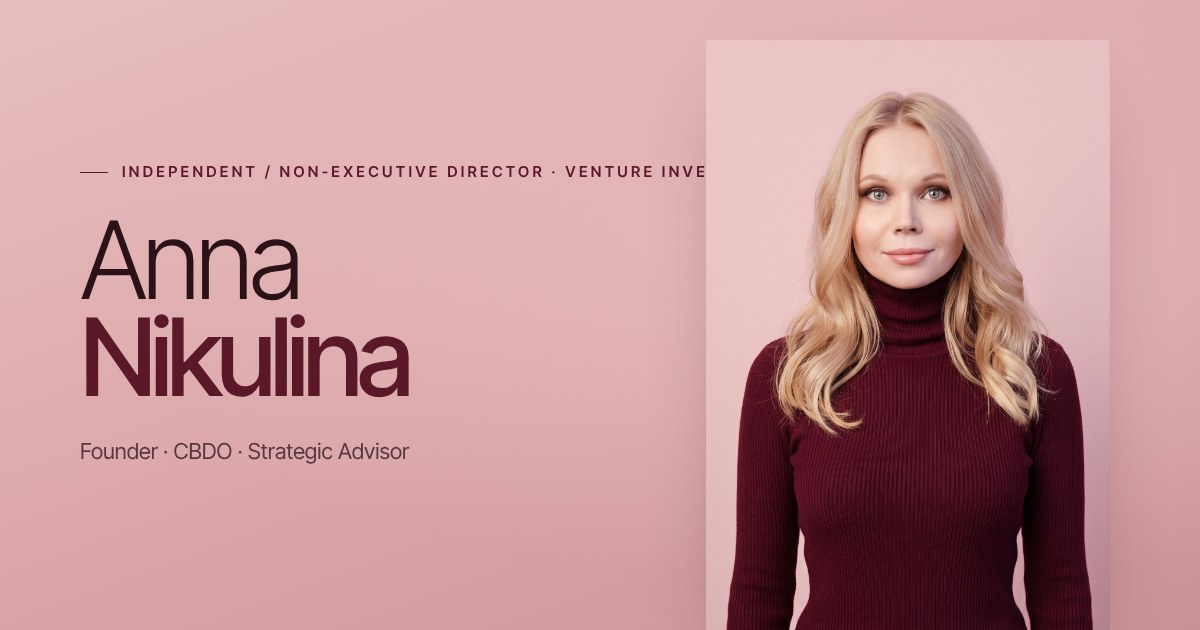
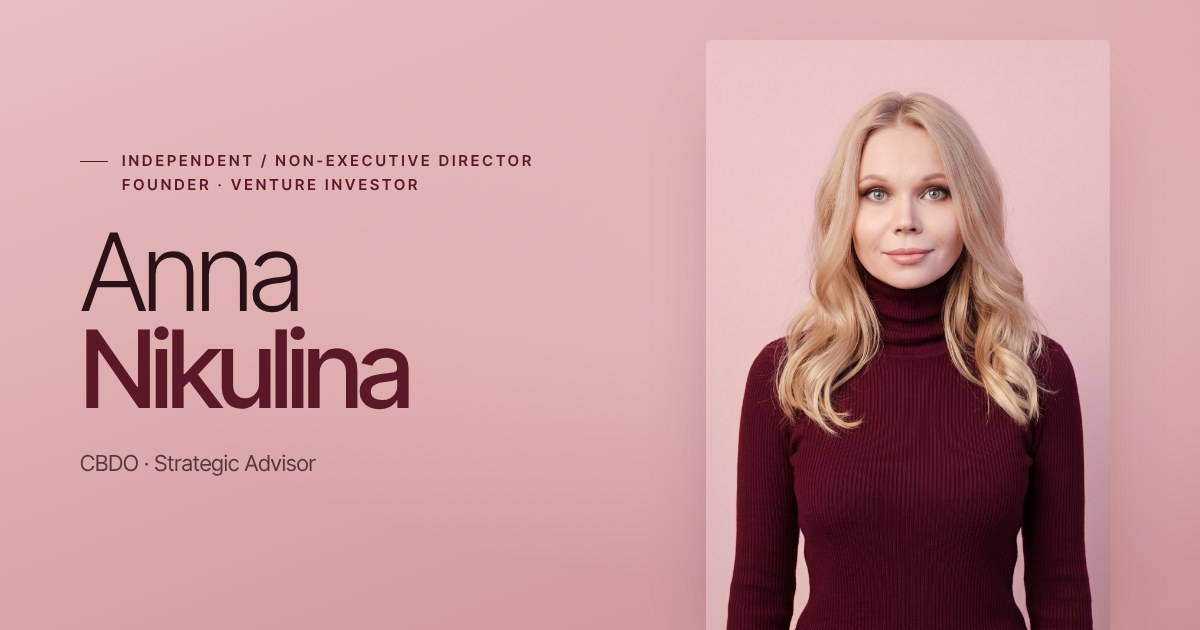
Hero eyebrow: add Founder; lead starts with CBDO; OG cover two-line eyebrow
Claude-Session: https://claude.ai/code/session_017zF6NKWSFQoNCEWFPX3gsG

Changed region(s): [[0.0617, 0.3619, 0.3392, 0.6635], [0.0925, 0.2413, 0.5858, 0.3016], [0.0617, 0.6937, 0.3392, 0.754]]

diff --git a/annanikulina/index.html b/annanikulina/index.html
@@ -24,7 +24,7 @@
 <link rel="me" href="https://www.youtube.com/@STRATEGYNikulina">
 <link rel="me" href="https://rutube.ru/channel/30327202">
 <link rel="sitemap" type="application/xml" href="https://nikuanna.github.io/mysite/sitemap.xml">
-<script type="application/ld+json">{"@context":"https://schema.org","@graph":[{"@type":"ProfilePage","@id":"https://nikuanna.github.io/mysite/annanikulina/#page","url":"https://nikuanna.github.io/mysite/annanikulina/","name":"Анна Никулина | Независимый директор, Advisory Board, венчурный инвестор","description":"Анна Никулина: независимый директор, Advisory Board Member, венчурный инвестор. 13+ лет в банках ТОП-10 РФ. Корпоративное управление, риски, финтех, MENA.","inLanguage":"ru-RU","dateModified":"2026-11-23","isPartOf":{"@id":"https://nikuanna.github.io/mysite/#website"},"mainEntity":{"@id":"https://nikuanna.github.io/mysite/#person"},"primaryImageOfPage":"https://nikuanna.github.io/mysite/assets/img/anna-portrait.jpg"},{"@type":"WebSite","@id":"https://nikuanna.github.io/mysite/#website","url":"https://nikuanna.github.io/mysite/","name":"Анна Никулина","inLanguage":["ru-RU","en-US"]},{"@type":"Person","@id":"https://nikuanna.github.io/mysite/#person","name":"Анна Никулина","alternateName":["Anna Nikulina"],"givenName":"Анна","familyName":"Никулина","url":"https://nikuanna.github.io/mysite/annanikulina/","image":"https://nikuanna.github.io/mysite/assets/img/anna-portrait.jpg","description":"Анна Никулина: независимый директор, Advisory Board Member, венчурный инвестор. 13+ лет в банках ТОП-10 РФ. Корпоративное управление, риски, финтех, MENA.","jobTitle":["Независимый директор","Advisory Board Member","Советник по стратегическому развитию","Директор по развитию","Венчурный инвестор"],"knowsAbout":["Корпоративное управление","Работа совета директоров","Независимый директор","Риск-менеджмент","Кредитные риски","Корпоративное кредитование","Антикризисное управление","Стратегическое развитие бизнеса","Венчурные инвестиции","Финтех","Краудфандинг","M&A","Due diligence","Цифровая трансформация","Рынок MENA","GR и регулирование"],"knowsLanguage":["ru","en"],"memberOf":{"@type":"Organization","name":"Ассоциация независимых директоров (АНД)"},"homeLocation":{"@type":"Place","name":"Москва"},"sameAs":["https://www.linkedin.com/in/anna-nikulina-cbdo/","https://t.me/STRATEGYNikulina","https://t.me/Anna_Niku","https://www.youtube.com/@STRATEGYNikulina","https://rutube.ru/channel/30327202"]},{"@type":"ItemList","name":"Видео","itemListElement":[{"@type":"ListItem","position":1,"item":{"@type":"VideoObject","name":"Субсидиарная ответственность членов СД и собственников","description":"Субсидиарная ответственность членов СД и собственников. Гость: Павел Викторов","embedUrl":"https://rutube.ru/play/embed/118d6fa9727639e5040512ae6d32b4be","url":"https://rutube.ru/video/118d6fa9727639e5040512ae6d32b4be/"}},{"@type":"ListItem","position":2,"item":{"@type":"VideoObject","name":"Революция роботов","description":"Революция роботов. Гость: Артём Лукин","embedUrl":"https://rutube.ru/play/embed/0f608d7f2b0e4aaa801a74142903122b","url":"https://rutube.ru/video/0f608d7f2b0e4aaa801a74142903122b/"}},{"@type":"ListItem","position":3,"item":{"@type":"VideoObject","name":"Дом как сервис","description":"Дом как сервис. Гость: Артём Бабинов","embedUrl":"https://rutube.ru/play/embed/82245c10c63797b9d4839cec6b54728c","url":"https://rutube.ru/video/82245c10c63797b9d4839cec6b54728c/"}},{"@type":"ListItem","position":4,"item":{"@type":"VideoObject","name":"За кулисами M&A","description":"За кулисами M&A. Гость: Иван Скавыш","embedUrl":"https://rutube.ru/play/embed/9c4bf61b043f1e9871b5e467088dbe60","url":"https://rutube.ru/video/9c4bf61b043f1e9871b5e467088dbe60/"}},{"@type":"ListItem","position":5,"item":{"@type":"VideoObject","name":"Стратегия загородной жизни","description":"Стратегия загородной жизни. Гость: Евгений Антифеев","embedUrl":"https://rutube.ru/play/embed/722f7eb517eb702874613efbd3f16c28","url":"https://rutube.ru/video/722f7eb517eb702874613efbd3f16c28/"}},{"@type":"ListItem","position":6,"item":{"@type":"VideoObject","name":"Искусственный интеллект билет в будущее","description":"Искусственный интеллект билет в будущее. Гость: Тимур Эль-Гохари","embedUrl":"https://rutube.ru/play/embed/aa2cad4c1103fe543607f4f6108b470c","url":"https://rutube.ru/video/aa2cad4c1103fe543607f4f6108b470c/"}},{"@type":"ListItem","position":7,"item":{"@type":"VideoObject","name":"Как вывести бизнес в Китай","description":"Как вывести бизнес в Китай. Гость: Виктор Соковнин","embedUrl":"https://rutube.ru/play/embed/4b83cb5bb370456e2c958657fe2ba707","url":"https://rutube.ru/video/4b83cb5bb370456e2c958657fe2ba707/"}}]}]}</script>
+<script type="application/ld+json">{"@context":"https://schema.org","@graph":[{"@type":"ProfilePage","@id":"https://nikuanna.github.io/mysite/annanikulina/#page","url":"https://nikuanna.github.io/mysite/annanikulina/","name":"Анна Никулина | Независимый директор, Advisory Board, венчурный инвестор","description":"Анна Никулина: независимый директор, Advisory Board Member, венчурный инвестор. 13+ лет в банках ТОП-10 РФ. Корпоративное управление, риски, финтех, MENA.","inLanguage":"ru-RU","dateModified":"2026-11-23","isPartOf":{"@id":"https://nikuanna.github.io/mysite/#website"},"mainEntity":{"@id":"https://nikuanna.github.io/mysite/#person"},"primaryImageOfPage":"https://nikuanna.github.io/mysite/assets/img/anna-portrait.jpg"},{"@type":"WebSite","@id":"https://nikuanna.github.io/mysite/#website","url":"https://nikuanna.github.io/mysite/","name":"Анна Никулина","inLanguage":["ru-RU","en-US"]},{"@type":"Person","@id":"https://nikuanna.github.io/mysite/#person","name":"Анна Никулина","alternateName":["Anna Nikulina"],"givenName":"Анна","familyName":"Никулина","url":"https://nikuanna.github.io/mysite/annanikulina/","image":"https://nikuanna.github.io/mysite/assets/img/anna-portrait.jpg","description":"Анна Никулина: независимый директор, Advisory Board Member, венчурный инвестор. 13+ лет в банках ТОП-10 РФ. Корпоративное управление, риски, финтех, MENA.","jobTitle":["Независимый директор","Основатель","Advisory Board Member","Советник по стратегическому развитию","Директор по развитию","Венчурный инвестор"],"knowsAbout":["Корпоративное управление","Работа совета директоров","Независимый директор","Риск-менеджмент","Кредитные риски","Корпоративное кредитование","Антикризисное управление","Стратегическое развитие бизнеса","Венчурные инвестиции","Финтех","Краудфандинг","M&A","Due diligence","Цифровая трансформация","Рынок MENA","GR и регулирование"],"knowsLanguage":["ru","en"],"memberOf":{"@type":"Organization","name":"Ассоциация независимых директоров (АНД)"},"homeLocation":{"@type":"Place","name":"Москва"},"sameAs":["https://www.linkedin.com/in/anna-nikulina-cbdo/","https://t.me/STRATEGYNikulina","https://t.me/Anna_Niku","https://www.youtube.com/@STRATEGYNikulina","https://rutube.ru/channel/30327202"]},{"@type":"ItemList","name":"Видео","itemListElement":[{"@type":"ListItem","position":1,"item":{"@type":"VideoObject","name":"Субсидиарная ответственность членов СД и собственников","description":"Субсидиарная ответственность членов СД и собственников. Гость: Павел Викторов","embedUrl":"https://rutube.ru/play/embed/118d6fa9727639e5040512ae6d32b4be","url":"https://rutube.ru/video/118d6fa9727639e5040512ae6d32b4be/"}},{"@type":"ListItem","position":2,"item":{"@type":"VideoObject","name":"Революция роботов","description":"Революция роботов. Гость: Артём Лукин","embedUrl":"https://rutube.ru/play/embed/0f608d7f2b0e4aaa801a74142903122b","url":"https://rutube.ru/video/0f608d7f2b0e4aaa801a74142903122b/"}},{"@type":"ListItem","position":3,"item":{"@type":"VideoObject","name":"Дом как сервис","description":"Дом как сервис. Гость: Артём Бабинов","embedUrl":"https://rutube.ru/play/embed/82245c10c63797b9d4839cec6b54728c","url":"https://rutube.ru/video/82245c10c63797b9d4839cec6b54728c/"}},{"@type":"ListItem","position":4,"item":{"@type":"VideoObject","name":"За кулисами M&A","description":"За кулисами M&A. Гость: Иван Скавыш","embedUrl":"https://rutube.ru/play/embed/9c4bf61b043f1e9871b5e467088dbe60","url":"https://rutube.ru/video/9c4bf61b043f1e9871b5e467088dbe60/"}},{"@type":"ListItem","position":5,"item":{"@type":"VideoObject","name":"Стратегия загородной жизни","description":"Стратегия загородной жизни. Гость: Евгений Антифеев","embedUrl":"https://rutube.ru/play/embed/722f7eb517eb702874613efbd3f16c28","url":"https://rutube.ru/video/722f7eb517eb702874613efbd3f16c28/"}},{"@type":"ListItem","position":6,"item":{"@type":"VideoObject","name":"Искусственный интеллект билет в будущее","description":"Искусственный интеллект билет в будущее. Гость: Тимур Эль-Гохари","embedUrl":"https://rutube.ru/play/embed/aa2cad4c1103fe543607f4f6108b470c","url":"https://rutube.ru/video/aa2cad4c1103fe543607f4f6108b470c/"}},{"@type":"ListItem","position":7,"item":{"@type":"VideoObject","name":"Как вывести бизнес в Китай","description":"Как вывести бизнес в Китай. Гость: Виктор Соковнин","embedUrl":"https://rutube.ru/play/embed/4b83cb5bb370456e2c958657fe2ba707","url":"https://rutube.ru/video/4b83cb5bb370456e2c958657fe2ba707/"}}]}]}</script>
 <meta property="og:title" content="Анна Никулина | Независимый директор, Advisory Board, венчурный инвестор">
 <meta property="og:description" content="Анна Никулина: независимый директор, Advisory Board Member, венчурный инвестор. 13+ лет в банках ТОП-10 РФ. Корпоративное управление, риски, финтех, MENA.">
 <meta property="og:url" content="https://nikuanna.github.io/mysite/annanikulina/">
@@ -58,9 +58,9 @@
     <div class="hero-orb" data-speed="0.5" data-x="-0.08" aria-hidden="true"></div>
     <div class="wrap">
       <div class="hero-text" data-speed="0.18" data-fade>
-        <div class="eyebrow reveal">Независимый директор в СД · Венчурный инвестор</div>
+        <div class="eyebrow reveal">Независимый директор в СД · Основатель · Венчурный инвестор</div>
         <h1 class="reveal d1">Анна<span class="l2">Никулина</span></h1>
-        <p class="hero-lead reveal d2">Основатель, директор по развитию и советник по стратегическому развитию. Помогаю собственникам, инвесторам и стартапам принимать решения, которые выдерживают проверку временем.</p>
+        <p class="hero-lead reveal d2">Директор по развитию и советник по стратегическому развитию. Помогаю собственникам, инвесторам и стартапам принимать решения, которые выдерживают проверку временем.</p>
         <div class="hero-cta reveal d3">
           <a class="btn btn-wine glow" href="#contact">Связаться<svg viewBox="0 0 24 24" fill="none" stroke="currentColor" stroke-width="1.6" aria-hidden="true"><path d="M5 12h14M13 6l6 6-6 6"/></svg></a>
           <ul class="icon-row" aria-label="Мои каналы и соцсети"><li><a class="glow" href="https://www.linkedin.com/in/anna-nikulina-cbdo/" target="_blank" rel="noopener" aria-label="LinkedIn: Anna Nikulina" title="LinkedIn: Anna Nikulina"><svg viewBox="0 0 24 24" fill="currentColor" aria-hidden="true"><path d="M4.98 3.5a2.5 2.5 0 1 1 0 5 2.5 2.5 0 0 1 0-5zM3 9.5h4V21H3zM10 9.5h3.8v1.6h.06c.53-1 1.83-2.06 3.77-2.06 4.03 0 4.77 2.65 4.77 6.1V21h-4v-5.1c0-1.22-.02-2.79-1.7-2.79-1.7 0-1.96 1.33-1.96 2.7V21h-4z"/></svg></a></li><li><a class="glow" href="https://t.me/Anna_Niku" target="_blank" rel="noopener" aria-label="Написать в Telegram: @Anna_Niku" title="Написать в Telegram: @Anna_Niku"><svg viewBox="0 0 24 24" fill="currentColor" aria-hidden="true"><path d="M21.9 4.3 18.7 19.4c-.24 1.07-.87 1.33-1.76.83l-4.87-3.59-2.35 2.26c-.26.26-.48.48-.98.48l.35-4.96 9.03-8.16c.39-.35-.09-.54-.61-.2L6.36 13.1l-4.8-1.5c-1.04-.33-1.06-1.04.22-1.54L20.5 2.85c.87-.32 1.63.2 1.4 1.45z"/></svg></a></li><li class="has-word"><a class="glow" href="https://t.me/STRATEGYNikulina" target="_blank" rel="noopener" aria-label="Telegram-канал STRATEGY" title="Telegram-канал STRATEGY"><svg viewBox="0 0 24 24" fill="currentColor" aria-hidden="true"><path d="M21.9 4.3 18.7 19.4c-.24 1.07-.87 1.33-1.76.83l-4.87-3.59-2.35 2.26c-.26.26-.48.48-.98.48l.35-4.96 9.03-8.16c.39-.35-.09-.54-.61-.2L6.36 13.1l-4.8-1.5c-1.04-.33-1.06-1.04.22-1.54L20.5 2.85c.87-.32 1.63.2 1.4 1.45z"/></svg><span>канал</span></a></li><li><a class="glow" href="https://www.youtube.com/@STRATEGYNikulina" target="_blank" rel="noopener" aria-label="YouTube-канал STRATEGY" title="YouTube-канал STRATEGY"><svg viewBox="0 0 24 24" fill="currentColor" fill-rule="evenodd" aria-hidden="true"><path d="M23 7.2a3 3 0 0 0-2.1-2.1C19 4.6 12 4.6 12 4.6s-7 0-8.9.5A3 3 0 0 0 1 7.2 31 31 0 0 0 .5 12a31 31 0 0 0 .5 4.8 3 3 0 0 0 2.1 2.1c1.9.5 8.9.5 8.9.5s7 0 8.9-.5a3 3 0 0 0 2.1-2.1 31 31 0 0 0 .5-4.8 31 31 0 0 0-.5-4.8zM9.75 15.02V8.98L15.5 12z"/></svg></a></li><li><a class="glow" href="https://rutube.ru/channel/30327202" target="_blank" rel="noopener" aria-label="RuTube-канал" title="RuTube-канал"><svg viewBox="0 0 24 24" aria-hidden="true"><rect x="2.6" y="2.6" width="18.8" height="18.8" rx="5" fill="none" stroke="currentColor" stroke-width="1.8"/><path d="M8.6 17V7.2h4.5a2.8 2.8 0 0 1 0 5.6H8.6M12.5 12.8l3 4.2" fill="none" stroke="currentColor" stroke-width="1.8" stroke-linecap="round" stroke-linejoin="round"/><circle cx="17" cy="7" r="1.4" fill="currentColor"/></svg></a></li></ul>
@@ -132,7 +132,7 @@
 </main>
 
 <footer class="footer">
-  <div class="wrap"><span>© 2026 Анна Никулина</span><ul class="icon-row icon-row-sm" aria-label="Мои каналы и соцсети"><li><a class="glow" href="https://www.linkedin.com/in/anna-nikulina-cbdo/" target="_blank" rel="noopener" aria-label="LinkedIn: Anna Nikulina" title="LinkedIn: Anna Nikulina"><svg viewBox="0 0 24 24" fill="currentColor" aria-hidden="true"><path d="M4.98 3.5a2.5 2.5 0 1 1 0 5 2.5 2.5 0 0 1 0-5zM3 9.5h4V21H3zM10 9.5h3.8v1.6h.06c.53-1 1.83-2.06 3.77-2.06 4.03 0 4.77 2.65 4.77 6.1V21h-4v-5.1c0-1.22-.02-2.79-1.7-2.79-1.7 0-1.96 1.33-1.96 2.7V21h-4z"/></svg></a></li><li><a class="glow" href="https://t.me/Anna_Niku" target="_blank" rel="noopener" aria-label="Написать в Telegram: @Anna_Niku" title="Написать в Telegram: @Anna_Niku"><svg viewBox="0 0 24 24" fill="currentColor" aria-hidden="true"><path d="M21.9 4.3 18.7 19.4c-.24 1.07-.87 1.33-1.76.83l-4.87-3.59-2.35 2.26c-.26.26-.48.48-.98.48l.35-4.96 9.03-8.16c.39-.35-.09-.54-.61-.2L6.36 13.1l-4.8-1.5c-1.04-.33-1.06-1.04.22-1.54L20.5 2.85c.87-.32 1.63.2 1.4 1.45z"/></svg></a></li><li class="has-word"><a class="glow" href="https://t.me/STRATEGYNikulina" target="_blank" rel="noopener" aria-label="Telegram-канал STRATEGY" title="Telegram-канал STRATEGY"><svg viewBox="0 0 24 24" fill="currentColor" aria-hidden="true"><path d="M21.9 4.3 18.7 19.4c-.24 1.07-.87 1.33-1.76.83l-4.87-3.59-2.35 2.26c-.26.26-.48.48-.98.48l.35-4.96 9.03-8.16c.39-.35-.09-.54-.61-.2L6.36 13.1l-4.8-1.5c-1.04-.33-1.06-1.04.22-1.54L20.5 2.85c.87-.32 1.63.2 1.4 1.45z"/></svg><span>канал</span></a></li><li><a class="glow" href="https://www.youtube.com/@STRATEGYNikulina" target="_blank" rel="noopener" aria-label="YouTube-канал STRATEGY" title="YouTube-канал STRATEGY"><svg viewBox="0 0 24 24" fill="currentColor" fill-rule="evenodd" aria-hidden="true"><path d="M23 7.2a3 3 0 0 0-2.1-2.1C19 4.6 12 4.6 12 4.6s-7 0-8.9.5A3 3 0 0 0 1 7.2 31 31 0 0 0 .5 12a31 31 0 0 0 .5 4.8 3 3 0 0 0 2.1 2.1c1.9.5 8.9.5 8.9.5s7 0 8.9-.5a3 3 0 0 0 2.1-2.1 31 31 0 0 0 .5-4.8 31 31 0 0 0-.5-4.8zM9.75 15.02V8.98L15.5 12z"/></svg></a></li><li><a class="glow" href="https://rutube.ru/channel/30327202" target="_blank" rel="noopener" aria-label="RuTube-канал" title="RuTube-канал"><svg viewBox="0 0 24 24" aria-hidden="true"><rect x="2.6" y="2.6" width="18.8" height="18.8" rx="5" fill="none" stroke="currentColor" stroke-width="1.8"/><path d="M8.6 17V7.2h4.5a2.8 2.8 0 0 1 0 5.6H8.6M12.5 12.8l3 4.2" fill="none" stroke="currentColor" stroke-width="1.8" stroke-linecap="round" stroke-linejoin="round"/><circle cx="17" cy="7" r="1.4" fill="currentColor"/></svg></a></li></ul><span>Независимый директор в СД · Венчурный инвестор</span></div>
+  <div class="wrap"><span>© 2026 Анна Никулина</span><ul class="icon-row icon-row-sm" aria-label="Мои каналы и соцсети"><li><a class="glow" href="https://www.linkedin.com/in/anna-nikulina-cbdo/" target="_blank" rel="noopener" aria-label="LinkedIn: Anna Nikulina" title="LinkedIn: Anna Nikulina"><svg viewBox="0 0 24 24" fill="currentColor" aria-hidden="true"><path d="M4.98 3.5a2.5 2.5 0 1 1 0 5 2.5 2.5 0 0 1 0-5zM3 9.5h4V21H3zM10 9.5h3.8v1.6h.06c.53-1 1.83-2.06 3.77-2.06 4.03 0 4.77 2.65 4.77 6.1V21h-4v-5.1c0-1.22-.02-2.79-1.7-2.79-1.7 0-1.96 1.33-1.96 2.7V21h-4z"/></svg></a></li><li><a class="glow" href="https://t.me/Anna_Niku" target="_blank" rel="noopener" aria-label="Написать в Telegram: @Anna_Niku" title="Написать в Telegram: @Anna_Niku"><svg viewBox="0 0 24 24" fill="currentColor" aria-hidden="true"><path d="M21.9 4.3 18.7 19.4c-.24 1.07-.87 1.33-1.76.83l-4.87-3.59-2.35 2.26c-.26.26-.48.48-.98.48l.35-4.96 9.03-8.16c.39-.35-.09-.54-.61-.2L6.36 13.1l-4.8-1.5c-1.04-.33-1.06-1.04.22-1.54L20.5 2.85c.87-.32 1.63.2 1.4 1.45z"/></svg></a></li><li class="has-word"><a class="glow" href="https://t.me/STRATEGYNikulina" target="_blank" rel="noopener" aria-label="Telegram-канал STRATEGY" title="Telegram-канал STRATEGY"><svg viewBox="0 0 24 24" fill="currentColor" aria-hidden="true"><path d="M21.9 4.3 18.7 19.4c-.24 1.07-.87 1.33-1.76.83l-4.87-3.59-2.35 2.26c-.26.26-.48.48-.98.48l.35-4.96 9.03-8.16c.39-.35-.09-.54-.61-.2L6.36 13.1l-4.8-1.5c-1.04-.33-1.06-1.04.22-1.54L20.5 2.85c.87-.32 1.63.2 1.4 1.45z"/></svg><span>канал</span></a></li><li><a class="glow" href="https://www.youtube.com/@STRATEGYNikulina" target="_blank" rel="noopener" aria-label="YouTube-канал STRATEGY" title="YouTube-канал STRATEGY"><svg viewBox="0 0 24 24" fill="currentColor" fill-rule="evenodd" aria-hidden="true"><path d="M23 7.2a3 3 0 0 0-2.1-2.1C19 4.6 12 4.6 12 4.6s-7 0-8.9.5A3 3 0 0 0 1 7.2 31 31 0 0 0 .5 12a31 31 0 0 0 .5 4.8 3 3 0 0 0 2.1 2.1c1.9.5 8.9.5 8.9.5s7 0 8.9-.5a3 3 0 0 0 2.1-2.1 31 31 0 0 0 .5-4.8 31 31 0 0 0-.5-4.8zM9.75 15.02V8.98L15.5 12z"/></svg></a></li><li><a class="glow" href="https://rutube.ru/channel/30327202" target="_blank" rel="noopener" aria-label="RuTube-канал" title="RuTube-канал"><svg viewBox="0 0 24 24" aria-hidden="true"><rect x="2.6" y="2.6" width="18.8" height="18.8" rx="5" fill="none" stroke="currentColor" stroke-width="1.8"/><path d="M8.6 17V7.2h4.5a2.8 2.8 0 0 1 0 5.6H8.6M12.5 12.8l3 4.2" fill="none" stroke="currentColor" stroke-width="1.8" stroke-linecap="round" stroke-linejoin="round"/><circle cx="17" cy="7" r="1.4" fill="currentColor"/></svg></a></li></ul><span>Независимый директор в СД · Основатель · Венчурный инвестор</span></div>
 </footer>
 
 <script src="../assets/site.js" defer></script>

diff --git a/en/index.html b/en/index.html
@@ -24,7 +24,7 @@
 <link rel="me" href="https://www.youtube.com/@STRATEGYNikulina">
 <link rel="me" href="https://rutube.ru/channel/30327202">
 <link rel="sitemap" type="application/xml" href="https://nikuanna.github.io/mysite/sitemap.xml">
-<script type="application/ld+json">{"@context":"https://schema.org","@graph":[{"@type":"ProfilePage","@id":"https://nikuanna.github.io/mysite/en/#page","url":"https://nikuanna.github.io/mysite/en/","name":"Anna Nikulina | Independent / Non-Executive Director & Venture Investor","description":"Anna Nikulina: independent / non-executive director, advisory board member, venture investor. 13+ years at top-10 Russian banks. Governance, risk, fintech, MENA.","inLanguage":"en-US","dateModified":"2026-11-23","isPartOf":{"@id":"https://nikuanna.github.io/mysite/#website"},"mainEntity":{"@id":"https://nikuanna.github.io/mysite/#person"},"primaryImageOfPage":"https://nikuanna.github.io/mysite/assets/img/anna-portrait.jpg"},{"@type":"WebSite","@id":"https://nikuanna.github.io/mysite/#website","url":"https://nikuanna.github.io/mysite/","name":"Anna Nikulina","inLanguage":["ru-RU","en-US"]},{"@type":"Person","@id":"https://nikuanna.github.io/mysite/#person","name":"Anna Nikulina","alternateName":["Анна Никулина"],"givenName":"Anna","familyName":"Nikulina","url":"https://nikuanna.github.io/mysite/en/","image":"https://nikuanna.github.io/mysite/assets/img/anna-portrait.jpg","description":"Anna Nikulina: independent / non-executive director, advisory board member, venture investor. 13+ years at top-10 Russian banks. Governance, risk, fintech, MENA.","jobTitle":["Independent / Non-Executive Director","Advisory Board Member","Strategic Advisor","Chief Business Development Officer","Venture Investor"],"knowsAbout":["Corporate governance","Board of directors","Non-executive director","Risk management","Credit risk","Corporate lending","Crisis management","Business strategy","Venture capital","Fintech","Crowdfunding","Mergers and acquisitions","Due diligence","Digital transformation","MENA markets","Regulatory policy"],"knowsLanguage":["ru","en"],"memberOf":{"@type":"Organization","name":"Association of Independent Directors (AID), Russia"},"homeLocation":{"@type":"Place","name":"Moscow"},"sameAs":["https://www.linkedin.com/in/anna-nikulina-cbdo/","https://t.me/STRATEGYNikulina","https://t.me/Anna_Niku","https://www.youtube.com/@STRATEGYNikulina","https://rutube.ru/channel/30327202"]},{"@type":"ItemList","name":"Videos","itemListElement":[{"@type":"ListItem","position":1,"item":{"@type":"VideoObject","name":"Subsidiary liability of board members and owners","description":"Subsidiary liability of board members and owners. Guest: Pavel Viktorov","embedUrl":"https://www.youtube-nocookie.com/embed/cvLB6uWxBnk","url":"https://www.youtube.com/watch?v=cvLB6uWxBnk","thumbnailUrl":"https://i.ytimg.com/vi/cvLB6uWxBnk/hqdefault.jpg"}},{"@type":"ListItem","position":2,"item":{"@type":"VideoObject","name":"The robot revolution","description":"The robot revolution. Guest: Artem Lukin","embedUrl":"https://www.youtube-nocookie.com/embed/VuuB7uzdvwo","url":"https://www.youtube.com/watch?v=VuuB7uzdvwo","thumbnailUrl":"https://i.ytimg.com/vi/VuuB7uzdvwo/hqdefault.jpg"}},{"@type":"ListItem","position":3,"item":{"@type":"VideoObject","name":"Home as a service","description":"Home as a service. Guest: Artem Babinov","embedUrl":"https://www.youtube-nocookie.com/embed/n84INQQOz0Q","url":"https://www.youtube.com/watch?v=n84INQQOz0Q","thumbnailUrl":"https://i.ytimg.com/vi/n84INQQOz0Q/hqdefault.jpg"}},{"@type":"ListItem","position":4,"item":{"@type":"VideoObject","name":"Behind the scenes of M&A","description":"Behind the scenes of M&A. Guest: Ivan Skavysh","embedUrl":"https://www.youtube-nocookie.com/embed/jWN5XPts_jQ","url":"https://www.youtube.com/watch?v=jWN5XPts_jQ","thumbnailUrl":"https://i.ytimg.com/vi/jWN5XPts_jQ/hqdefault.jpg"}},{"@type":"ListItem","position":5,"item":{"@type":"VideoObject","name":"A strategy for country living","description":"A strategy for country living. Guest: Evgeny Antifeev","embedUrl":"https://www.youtube-nocookie.com/embed/KyPmCVrwbLU","url":"https://www.youtube.com/watch?v=KyPmCVrwbLU","thumbnailUrl":"https://i.ytimg.com/vi/KyPmCVrwbLU/hqdefault.jpg"}},{"@type":"ListItem","position":6,"item":{"@type":"VideoObject","name":"Artificial intelligence: a ticket to the future","description":"Artificial intelligence: a ticket to the future. Guest: Timur El-Gohary","embedUrl":"https://www.youtube-nocookie.com/embed/8VpxzIJPAVs","url":"https://www.youtube.com/watch?v=8VpxzIJPAVs","thumbnailUrl":"https://i.ytimg.com/vi/8VpxzIJPAVs/hqdefault.jpg"}},{"@type":"ListItem","position":7,"item":{"@type":"VideoObject","name":"How to expand your business into China","description":"How to expand your business into China. Guest: Viktor Sokovnin","embedUrl":"https://www.youtube-nocookie.com/embed/xlhwJ3_e-nw","url":"https://www.youtube.com/watch?v=xlhwJ3_e-nw","thumbnailUrl":"https://i.ytimg.com/vi/xlhwJ3_e-nw/hqdefault.jpg"}}]}]}</script>
+<script type="application/ld+json">{"@context":"https://schema.org","@graph":[{"@type":"ProfilePage","@id":"https://nikuanna.github.io/mysite/en/#page","url":"https://nikuanna.github.io/mysite/en/","name":"Anna Nikulina | Independent / Non-Executive Director & Venture Investor","description":"Anna Nikulina: independent / non-executive director, advisory board member, venture investor. 13+ years at top-10 Russian banks. Governance, risk, fintech, MENA.","inLanguage":"en-US","dateModified":"2026-11-23","isPartOf":{"@id":"https://nikuanna.github.io/mysite/#website"},"mainEntity":{"@id":"https://nikuanna.github.io/mysite/#person"},"primaryImageOfPage":"https://nikuanna.github.io/mysite/assets/img/anna-portrait.jpg"},{"@type":"WebSite","@id":"https://nikuanna.github.io/mysite/#website","url":"https://nikuanna.github.io/mysite/","name":"Anna Nikulina","inLanguage":["ru-RU","en-US"]},{"@type":"Person","@id":"https://nikuanna.github.io/mysite/#person","name":"Anna Nikulina","alternateName":["Анна Никулина"],"givenName":"Anna","familyName":"Nikulina","url":"https://nikuanna.github.io/mysite/en/","image":"https://nikuanna.github.io/mysite/assets/img/anna-portrait.jpg","description":"Anna Nikulina: independent / non-executive director, advisory board member, venture investor. 13+ years at top-10 Russian banks. Governance, risk, fintech, MENA.","jobTitle":["Independent / Non-Executive Director","Founder","Advisory Board Member","Strategic Advisor","Chief Business Development Officer","Venture Investor"],"knowsAbout":["Corporate governance","Board of directors","Non-executive director","Risk management","Credit risk","Corporate lending","Crisis management","Business strategy","Venture capital","Fintech","Crowdfunding","Mergers and acquisitions","Due diligence","Digital transformation","MENA markets","Regulatory policy"],"knowsLanguage":["ru","en"],"memberOf":{"@type":"Organization","name":"Association of Independent Directors (AID), Russia"},"homeLocation":{"@type":"Place","name":"Moscow"},"sameAs":["https://www.linkedin.com/in/anna-nikulina-cbdo/","https://t.me/STRATEGYNikulina","https://t.me/Anna_Niku","https://www.youtube.com/@STRATEGYNikulina","https://rutube.ru/channel/30327202"]},{"@type":"ItemList","name":"Videos","itemListElement":[{"@type":"ListItem","position":1,"item":{"@type":"VideoObject","name":"Subsidiary liability of board members and owners","description":"Subsidiary liability of board members and owners. Guest: Pavel Viktorov","embedUrl":"https://www.youtube-nocookie.com/embed/cvLB6uWxBnk","url":"https://www.youtube.com/watch?v=cvLB6uWxBnk","thumbnailUrl":"https://i.ytimg.com/vi/cvLB6uWxBnk/hqdefault.jpg"}},{"@type":"ListItem","position":2,"item":{"@type":"VideoObject","name":"The robot revolution","description":"The robot revolution. Guest: Artem Lukin","embedUrl":"https://www.youtube-nocookie.com/embed/VuuB7uzdvwo","url":"https://www.youtube.com/watch?v=VuuB7uzdvwo","thumbnailUrl":"https://i.ytimg.com/vi/VuuB7uzdvwo/hqdefault.jpg"}},{"@type":"ListItem","position":3,"item":{"@type":"VideoObject","name":"Home as a service","description":"Home as a service. Guest: Artem Babinov","embedUrl":"https://www.youtube-nocookie.com/embed/n84INQQOz0Q","url":"https://www.youtube.com/watch?v=n84INQQOz0Q","thumbnailUrl":"https://i.ytimg.com/vi/n84INQQOz0Q/hqdefault.jpg"}},{"@type":"ListItem","position":4,"item":{"@type":"VideoObject","name":"Behind the scenes of M&A","description":"Behind the scenes of M&A. Guest: Ivan Skavysh","embedUrl":"https://www.youtube-nocookie.com/embed/jWN5XPts_jQ","url":"https://www.youtube.com/watch?v=jWN5XPts_jQ","thumbnailUrl":"https://i.ytimg.com/vi/jWN5XPts_jQ/hqdefault.jpg"}},{"@type":"ListItem","position":5,"item":{"@type":"VideoObject","name":"A strategy for country living","description":"A strategy for country living. Guest: Evgeny Antifeev","embedUrl":"https://www.youtube-nocookie.com/embed/KyPmCVrwbLU","url":"https://www.youtube.com/watch?v=KyPmCVrwbLU","thumbnailUrl":"https://i.ytimg.com/vi/KyPmCVrwbLU/hqdefault.jpg"}},{"@type":"ListItem","position":6,"item":{"@type":"VideoObject","name":"Artificial intelligence: a ticket to the future","description":"Artificial intelligence: a ticket to the future. Guest: Timur El-Gohary","embedUrl":"https://www.youtube-nocookie.com/embed/8VpxzIJPAVs","url":"https://www.youtube.com/watch?v=8VpxzIJPAVs","thumbnailUrl":"https://i.ytimg.com/vi/8VpxzIJPAVs/hqdefault.jpg"}},{"@type":"ListItem","position":7,"item":{"@type":"VideoObject","name":"How to expand your business into China","description":"How to expand your business into China. Guest: Viktor Sokovnin","embedUrl":"https://www.youtube-nocookie.com/embed/xlhwJ3_e-nw","url":"https://www.youtube.com/watch?v=xlhwJ3_e-nw","thumbnailUrl":"https://i.ytimg.com/vi/xlhwJ3_e-nw/hqdefault.jpg"}}]}]}</script>
 <meta property="og:title" content="Anna Nikulina | Independent / Non-Executive Director &amp; Venture Investor">
 <meta property="og:description" content="Anna Nikulina: independent / non-executive director, advisory board member, venture investor. 13+ years at top-10 Russian banks. Governance, risk, fintech, MENA.">
 <meta property="og:url" content="https://nikuanna.github.io/mysite/en/">
@@ -58,9 +58,9 @@
     <div class="hero-orb" data-speed="0.5" data-x="-0.08" aria-hidden="true"></div>
     <div class="wrap">
       <div class="hero-text" data-speed="0.18" data-fade>
-        <div class="eyebrow reveal">Independent / Non-Executive Director · Venture Investor</div>
+        <div class="eyebrow reveal">Independent / Non-Executive Director · Founder · Venture Investor</div>
         <h1 class="reveal d1">Anna<span class="l2">Nikulina</span></h1>
-        <p class="hero-lead reveal d2">Founder, Chief Business Development Officer, and Strategic Advisor. I help business owners, investors, and founders make decisions that stand the test of time.</p>
+        <p class="hero-lead reveal d2">Chief Business Development Officer and Strategic Advisor. I help business owners, investors, and founders make decisions that stand the test of time.</p>
         <div class="hero-cta reveal d3">
           <a class="btn btn-wine glow" href="#contact">Get in Touch<svg viewBox="0 0 24 24" fill="none" stroke="currentColor" stroke-width="1.6" aria-hidden="true"><path d="M5 12h14M13 6l6 6-6 6"/></svg></a>
           <ul class="icon-row" aria-label="Channels &amp; social media"><li><a class="glow" href="https://www.linkedin.com/in/anna-nikulina-cbdo/" target="_blank" rel="noopener" aria-label="LinkedIn: Anna Nikulina" title="LinkedIn: Anna Nikulina"><svg viewBox="0 0 24 24" fill="currentColor" aria-hidden="true"><path d="M4.98 3.5a2.5 2.5 0 1 1 0 5 2.5 2.5 0 0 1 0-5zM3 9.5h4V21H3zM10 9.5h3.8v1.6h.06c.53-1 1.83-2.06 3.77-2.06 4.03 0 4.77 2.65 4.77 6.1V21h-4v-5.1c0-1.22-.02-2.79-1.7-2.79-1.7 0-1.96 1.33-1.96 2.7V21h-4z"/></svg></a></li><li><a class="glow" href="https://t.me/Anna_Niku" target="_blank" rel="noopener" aria-label="Message on Telegram: @Anna_Niku" title="Message on Telegram: @Anna_Niku"><svg viewBox="0 0 24 24" fill="currentColor" aria-hidden="true"><path d="M21.9 4.3 18.7 19.4c-.24 1.07-.87 1.33-1.76.83l-4.87-3.59-2.35 2.26c-.26.26-.48.48-.98.48l.35-4.96 9.03-8.16c.39-.35-.09-.54-.61-.2L6.36 13.1l-4.8-1.5c-1.04-.33-1.06-1.04.22-1.54L20.5 2.85c.87-.32 1.63.2 1.4 1.45z"/></svg></a></li><li class="has-word"><a class="glow" href="https://t.me/STRATEGYNikulina" target="_blank" rel="noopener" aria-label="Telegram channel STRATEGY (in Russian)" title="Telegram channel STRATEGY (in Russian)"><svg viewBox="0 0 24 24" fill="currentColor" aria-hidden="true"><path d="M21.9 4.3 18.7 19.4c-.24 1.07-.87 1.33-1.76.83l-4.87-3.59-2.35 2.26c-.26.26-.48.48-.98.48l.35-4.96 9.03-8.16c.39-.35-.09-.54-.61-.2L6.36 13.1l-4.8-1.5c-1.04-.33-1.06-1.04.22-1.54L20.5 2.85c.87-.32 1.63.2 1.4 1.45z"/></svg><span>channel</span></a></li><li><a class="glow" href="https://www.youtube.com/@STRATEGYNikulina" target="_blank" rel="noopener" aria-label="YouTube channel STRATEGY (in Russian)" title="YouTube channel STRATEGY (in Russian)"><svg viewBox="0 0 24 24" fill="currentColor" fill-rule="evenodd" aria-hidden="true"><path d="M23 7.2a3 3 0 0 0-2.1-2.1C19 4.6 12 4.6 12 4.6s-7 0-8.9.5A3 3 0 0 0 1 7.2 31 31 0 0 0 .5 12a31 31 0 0 0 .5 4.8 3 3 0 0 0 2.1 2.1c1.9.5 8.9.5 8.9.5s7 0 8.9-.5a3 3 0 0 0 2.1-2.1 31 31 0 0 0 .5-4.8 31 31 0 0 0-.5-4.8zM9.75 15.02V8.98L15.5 12z"/></svg></a></li><li><a class="glow" href="https://rutube.ru/channel/30327202" target="_blank" rel="noopener" aria-label="RuTube channel (in Russian)" title="RuTube channel (in Russian)"><svg viewBox="0 0 24 24" aria-hidden="true"><rect x="2.6" y="2.6" width="18.8" height="18.8" rx="5" fill="none" stroke="currentColor" stroke-width="1.8"/><path d="M8.6 17V7.2h4.5a2.8 2.8 0 0 1 0 5.6H8.6M12.5 12.8l3 4.2" fill="none" stroke="currentColor" stroke-width="1.8" stroke-linecap="round" stroke-linejoin="round"/><circle cx="17" cy="7" r="1.4" fill="currentColor"/></svg></a></li></ul>
@@ -132,7 +132,7 @@
 </main>
 
 <footer class="footer">
-  <div class="wrap"><span>© 2026 Anna Nikulina</span><ul class="icon-row icon-row-sm" aria-label="Channels &amp; social media"><li><a class="glow" href="https://www.linkedin.com/in/anna-nikulina-cbdo/" target="_blank" rel="noopener" aria-label="LinkedIn: Anna Nikulina" title="LinkedIn: Anna Nikulina"><svg viewBox="0 0 24 24" fill="currentColor" aria-hidden="true"><path d="M4.98 3.5a2.5 2.5 0 1 1 0 5 2.5 2.5 0 0 1 0-5zM3 9.5h4V21H3zM10 9.5h3.8v1.6h.06c.53-1 1.83-2.06 3.77-2.06 4.03 0 4.77 2.65 4.77 6.1V21h-4v-5.1c0-1.22-.02-2.79-1.7-2.79-1.7 0-1.96 1.33-1.96 2.7V21h-4z"/></svg></a></li><li><a class="glow" href="https://t.me/Anna_Niku" target="_blank" rel="noopener" aria-label="Message on Telegram: @Anna_Niku" title="Message on Telegram: @Anna_Niku"><svg viewBox="0 0 24 24" fill="currentColor" aria-hidden="true"><path d="M21.9 4.3 18.7 19.4c-.24 1.07-.87 1.33-1.76.83l-4.87-3.59-2.35 2.26c-.26.26-.48.48-.98.48l.35-4.96 9.03-8.16c.39-.35-.09-.54-.61-.2L6.36 13.1l-4.8-1.5c-1.04-.33-1.06-1.04.22-1.54L20.5 2.85c.87-.32 1.63.2 1.4 1.45z"/></svg></a></li><li class="has-word"><a class="glow" href="https://t.me/STRATEGYNikulina" target="_blank" rel="noopener" aria-label="Telegram channel STRATEGY (in Russian)" title="Telegram channel STRATEGY (in Russian)"><svg viewBox="0 0 24 24" fill="currentColor" aria-hidden="true"><path d="M21.9 4.3 18.7 19.4c-.24 1.07-.87 1.33-1.76.83l-4.87-3.59-2.35 2.26c-.26.26-.48.48-.98.48l.35-4.96 9.03-8.16c.39-.35-.09-.54-.61-.2L6.36 13.1l-4.8-1.5c-1.04-.33-1.06-1.04.22-1.54L20.5 2.85c.87-.32 1.63.2 1.4 1.45z"/></svg><span>channel</span></a></li><li><a class="glow" href="https://www.youtube.com/@STRATEGYNikulina" target="_blank" rel="noopener" aria-label="YouTube channel STRATEGY (in Russian)" title="YouTube channel STRATEGY (in Russian)"><svg viewBox="0 0 24 24" fill="currentColor" fill-rule="evenodd" aria-hidden="true"><path d="M23 7.2a3 3 0 0 0-2.1-2.1C19 4.6 12 4.6 12 4.6s-7 0-8.9.5A3 3 0 0 0 1 7.2 31 31 0 0 0 .5 12a31 31 0 0 0 .5 4.8 3 3 0 0 0 2.1 2.1c1.9.5 8.9.5 8.9.5s7 0 8.9-.5a3 3 0 0 0 2.1-2.1 31 31 0 0 0 .5-4.8 31 31 0 0 0-.5-4.8zM9.75 15.02V8.98L15.5 12z"/></svg></a></li><li><a class="glow" href="https://rutube.ru/channel/30327202" target="_blank" rel="noopener" aria-label="RuTube channel (in Russian)" title="RuTube channel (in Russian)"><svg viewBox="0 0 24 24" aria-hidden="true"><rect x="2.6" y="2.6" width="18.8" height="18.8" rx="5" fill="none" stroke="currentColor" stroke-width="1.8"/><path d="M8.6 17V7.2h4.5a2.8 2.8 0 0 1 0 5.6H8.6M12.5 12.8l3 4.2" fill="none" stroke="currentColor" stroke-width="1.8" stroke-linecap="round" stroke-linejoin="round"/><circle cx="17" cy="7" r="1.4" fill="currentColor"/></svg></a></li></ul><span>Independent / Non-Executive Director · Venture Investor</span></div>
+  <div class="wrap"><span>© 2026 Anna Nikulina</span><ul class="icon-row icon-row-sm" aria-label="Channels &amp; social media"><li><a class="glow" href="https://www.linkedin.com/in/anna-nikulina-cbdo/" target="_blank" rel="noopener" aria-label="LinkedIn: Anna Nikulina" title="LinkedIn: Anna Nikulina"><svg viewBox="0 0 24 24" fill="currentColor" aria-hidden="true"><path d="M4.98 3.5a2.5 2.5 0 1 1 0 5 2.5 2.5 0 0 1 0-5zM3 9.5h4V21H3zM10 9.5h3.8v1.6h.06c.53-1 1.83-2.06 3.77-2.06 4.03 0 4.77 2.65 4.77 6.1V21h-4v-5.1c0-1.22-.02-2.79-1.7-2.79-1.7 0-1.96 1.33-1.96 2.7V21h-4z"/></svg></a></li><li><a class="glow" href="https://t.me/Anna_Niku" target="_blank" rel="noopener" aria-label="Message on Telegram: @Anna_Niku" title="Message on Telegram: @Anna_Niku"><svg viewBox="0 0 24 24" fill="currentColor" aria-hidden="true"><path d="M21.9 4.3 18.7 19.4c-.24 1.07-.87 1.33-1.76.83l-4.87-3.59-2.35 2.26c-.26.26-.48.48-.98.48l.35-4.96 9.03-8.16c.39-.35-.09-.54-.61-.2L6.36 13.1l-4.8-1.5c-1.04-.33-1.06-1.04.22-1.54L20.5 2.85c.87-.32 1.63.2 1.4 1.45z"/></svg></a></li><li class="has-word"><a class="glow" href="https://t.me/STRATEGYNikulina" target="_blank" rel="noopener" aria-label="Telegram channel STRATEGY (in Russian)" title="Telegram channel STRATEGY (in Russian)"><svg viewBox="0 0 24 24" fill="currentColor" aria-hidden="true"><path d="M21.9 4.3 18.7 19.4c-.24 1.07-.87 1.33-1.76.83l-4.87-3.59-2.35 2.26c-.26.26-.48.48-.98.48l.35-4.96 9.03-8.16c.39-.35-.09-.54-.61-.2L6.36 13.1l-4.8-1.5c-1.04-.33-1.06-1.04.22-1.54L20.5 2.85c.87-.32 1.63.2 1.4 1.45z"/></svg><span>channel</span></a></li><li><a class="glow" href="https://www.youtube.com/@STRATEGYNikulina" target="_blank" rel="noopener" aria-label="YouTube channel STRATEGY (in Russian)" title="YouTube channel STRATEGY (in Russian)"><svg viewBox="0 0 24 24" fill="currentColor" fill-rule="evenodd" aria-hidden="true"><path d="M23 7.2a3 3 0 0 0-2.1-2.1C19 4.6 12 4.6 12 4.6s-7 0-8.9.5A3 3 0 0 0 1 7.2 31 31 0 0 0 .5 12a31 31 0 0 0 .5 4.8 3 3 0 0 0 2.1 2.1c1.9.5 8.9.5 8.9.5s7 0 8.9-.5a3 3 0 0 0 2.1-2.1 31 31 0 0 0 .5-4.8 31 31 0 0 0-.5-4.8zM9.75 15.02V8.98L15.5 12z"/></svg></a></li><li><a class="glow" href="https://rutube.ru/channel/30327202" target="_blank" rel="noopener" aria-label="RuTube channel (in Russian)" title="RuTube channel (in Russian)"><svg viewBox="0 0 24 24" aria-hidden="true"><rect x="2.6" y="2.6" width="18.8" height="18.8" rx="5" fill="none" stroke="currentColor" stroke-width="1.8"/><path d="M8.6 17V7.2h4.5a2.8 2.8 0 0 1 0 5.6H8.6M12.5 12.8l3 4.2" fill="none" stroke="currentColor" stroke-width="1.8" stroke-linecap="round" stroke-linejoin="round"/><circle cx="17" cy="7" r="1.4" fill="currentColor"/></svg></a></li></ul><span>Independent / Non-Executive Director · Founder · Venture Investor</span></div>
 </footer>
 
 <script src="../assets/site.js" defer></script>

diff --git a/assets/site.css b/assets/site.css
@@ -307,3 +307,5 @@ section[id]{scroll-margin-top:72px}
 .socials .glow{overflow:visible}
 .socials .glow::before,.socials .glow-flash{display:none}
 .band-sub{max-width:720px;margin:32px auto 0;font-size:clamp(16px,1.35vw,19px);line-height:1.65;font-weight:300;color:var(--on-dark-muted)}
+.hero .eyebrow{align-items:flex-start}
+.hero .eyebrow::before{flex:none;margin-top:.72em}

diff --git a/tools/build.py b/tools/build.py
@@ -111,7 +111,7 @@ CONTENT = {
         'title': 'Анна Никулина | Независимый директор, Advisory Board, венчурный инвестор',
         'description': 'Анна Никулина: независимый директор, Advisory Board Member, венчурный инвестор. 13+ лет в банках ТОП-10 РФ. Корпоративное управление, риски, финтех, MENA.',
         'keywords': 'Анна Никулина, независимый директор, член совета директоров, совет директоров, Advisory Board, советник по стратегическому развитию, директор по развитию, венчурный инвестор, корпоративное управление, риск-менеджмент, кредитные риски, финтех, краудфандинг, MENA',
-        'job_titles': ['Независимый директор', 'Advisory Board Member', 'Советник по стратегическому развитию', 'Директор по развитию', 'Венчурный инвестор'],
+        'job_titles': ['Независимый директор', 'Основатель', 'Advisory Board Member', 'Советник по стратегическому развитию', 'Директор по развитию', 'Венчурный инвестор'],
         'knows_about': ['Корпоративное управление', 'Работа совета директоров', 'Независимый директор', 'Риск-менеджмент', 'Кредитные риски', 'Корпоративное кредитование', 'Антикризисное управление', 'Стратегическое развитие бизнеса', 'Венчурные инвестиции', 'Финтех', 'Краудфандинг', 'M&A', 'Due diligence', 'Цифровая трансформация', 'Рынок MENA', 'GR и регулирование'],
         'org_member': 'Ассоциация независимых директоров (АНД)',
         'location': 'Москва',
@@ -120,9 +120,9 @@ CONTENT = {
         'vd_source': 'rutube', 'vd_channel_url': RUTUBE, 'vd_eyebrow': 'Видео',
         'vd_title': 'Разговоры о <b>бизнесе</b>', 'vd_intro': 'Интервью с предпринимателями и экспертами на моём канале. Нажмите на выпуск, и он откроется прямо здесь.',
         'vd_more': 'Показать все видео', 'vd_less': 'Свернуть', 'vd_channel': 'Канал на RuTube', 'vd_close': 'Закрыть', 'vd_guest': 'Гость:', 'vd_latest': 'Новый выпуск',
-        'eyebrow': 'Независимый директор в СД · Венчурный инвестор',
+        'eyebrow': 'Независимый директор в СД · Основатель · Венчурный инвестор',
         'h1_1': 'Анна', 'h1_2': 'Никулина',
-        'lead': 'Основатель, директор по развитию и советник по стратегическому развитию. Помогаю собственникам, инвесторам и стартапам принимать решения, которые выдерживают проверку временем.',
+        'lead': 'Директор по развитию и советник по стратегическому развитию. Помогаю собственникам, инвесторам и стартапам принимать решения, которые выдерживают проверку временем.',
         'cta_main': 'Связаться', 'cta_second': 'Telegram-канал',
         'portrait_alt': 'Анна Никулина',
         'tag_num': '15+', 'tag_text': 'лет в управлении',
@@ -154,14 +154,14 @@ CONTENT = {
         'socials_title': 'Мои каналы и соцсети',
         'links': [('in', 'LinkedIn', 'LinkedIn: Anna Nikulina', LINKEDIN), ('tg', 'Telegram', 'Написать в Telegram: @Anna_Niku', TG_PERSONAL),
                   ('tg', 'Telegram-канал', 'Telegram-канал STRATEGY', TG_CHANNEL, 'канал'), ('yt', 'YouTube', 'YouTube-канал STRATEGY', YOUTUBE), ('rt', 'RuTube', 'RuTube-канал', RUTUBE)],
-        'footer_left': '© 2026 Анна Никулина', 'footer_right': 'Независимый директор в СД · Венчурный инвестор',
+        'footer_left': '© 2026 Анна Никулина', 'footer_right': 'Независимый директор в СД · Основатель · Венчурный инвестор',
     },
     'en': {
         'lang': 'en', 'dir': 'en', 'url': BASE + '/en/',
         'title': 'Anna Nikulina | Independent / Non-Executive Director & Venture Investor',
         'description': 'Anna Nikulina: independent / non-executive director, advisory board member, venture investor. 13+ years at top-10 Russian banks. Governance, risk, fintech, MENA.',
         'keywords': 'Anna Nikulina, independent director, non-executive director, NED, INED, board member, board of directors, advisory board, strategic advisor, venture investor, corporate governance, risk management, credit risk, fintech, crowdfunding, MENA',
-        'job_titles': ['Independent / Non-Executive Director', 'Advisory Board Member', 'Strategic Advisor', 'Chief Business Development Officer', 'Venture Investor'],
+        'job_titles': ['Independent / Non-Executive Director', 'Founder', 'Advisory Board Member', 'Strategic Advisor', 'Chief Business Development Officer', 'Venture Investor'],
         'knows_about': ['Corporate governance', 'Board of directors', 'Non-executive director', 'Risk management', 'Credit risk', 'Corporate lending', 'Crisis management', 'Business strategy', 'Venture capital', 'Fintech', 'Crowdfunding', 'Mergers and acquisitions', 'Due diligence', 'Digital transformation', 'MENA markets', 'Regulatory policy'],
         'org_member': 'Association of Independent Directors (AID), Russia',
         'location': 'Moscow',
@@ -170,9 +170,9 @@ CONTENT = {
         'vd_source': 'youtube', 'vd_channel_url': YOUTUBE, 'vd_eyebrow': 'Videos',
         'vd_title': 'Conversations on <b>business</b>', 'vd_intro': 'Interviews with entrepreneurs and experts on my YouTube channel (mostly in Russian). Click any episode to play it right here.',
         'vd_more': 'Show all videos', 'vd_less': 'Show less', 'vd_channel': 'YouTube channel', 'vd_close': 'Close', 'vd_guest': 'Guest:', 'vd_latest': 'Latest episode',
-        'eyebrow': 'Independent / Non-Executive Director · Venture Investor',
+        'eyebrow': 'Independent / Non-Executive Director · Founder · Venture Investor',
         'h1_1': 'Anna', 'h1_2': 'Nikulina',
-        'lead': 'Founder, Chief Business Development Officer, and Strategic Advisor. I help business owners, investors, and founders make decisions that stand the test of time.',
+        'lead': 'Chief Business Development Officer and Strategic Advisor. I help business owners, investors, and founders make decisions that stand the test of time.',
         'cta_main': 'Get in Touch', 'cta_second': 'Telegram Channel',
         'portrait_alt': 'Anna Nikulina',
         'tag_num': '15+', 'tag_text': 'years in leadership',
@@ -204,7 +204,7 @@ CONTENT = {
         'socials_title': 'Channels &amp; social media',
         'links': [('in', 'LinkedIn', 'LinkedIn: Anna Nikulina', LINKEDIN), ('tg', 'Telegram', 'Message on Telegram: @Anna_Niku', TG_PERSONAL),
                   ('tg', 'Telegram Channel', 'Telegram channel STRATEGY (in Russian)', TG_CHANNEL, 'channel'), ('yt', 'YouTube', 'YouTube channel STRATEGY (in Russian)', YOUTUBE), ('rt', 'RuTube', 'RuTube channel (in Russian)', RUTUBE)],
-        'footer_left': '© 2026 Anna Nikulina', 'footer_right': 'Independent / Non-Executive Director · Venture Investor',
+        'footer_left': '© 2026 Anna Nikulina', 'footer_right': 'Independent / Non-Executive Director · Founder · Venture Investor',
     },
 }
 
